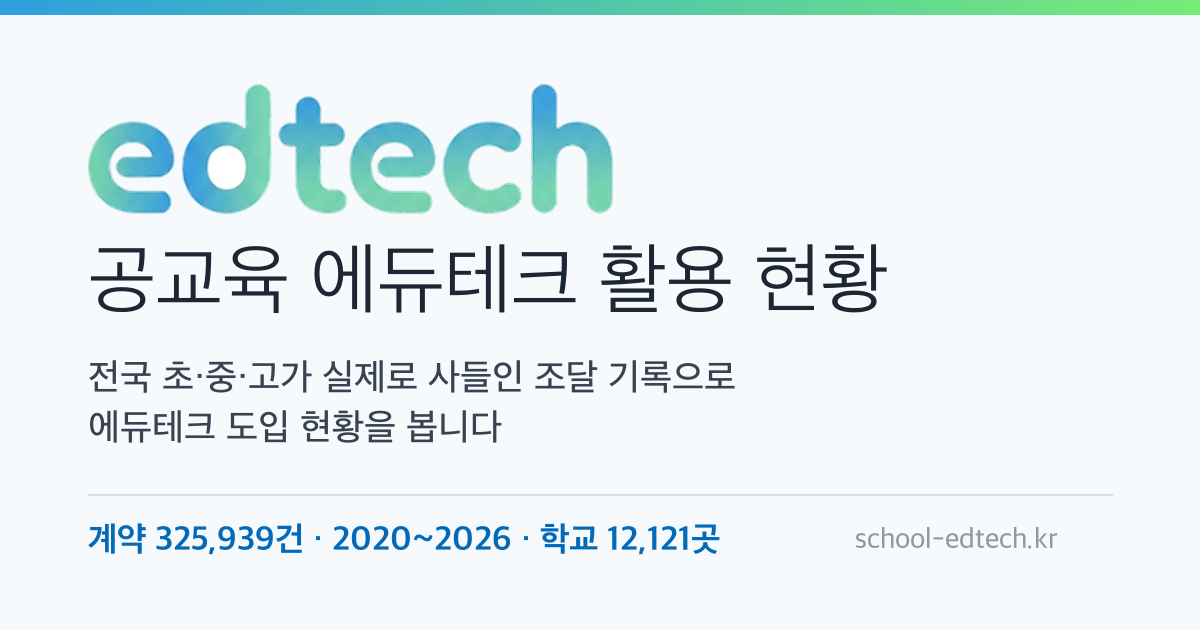
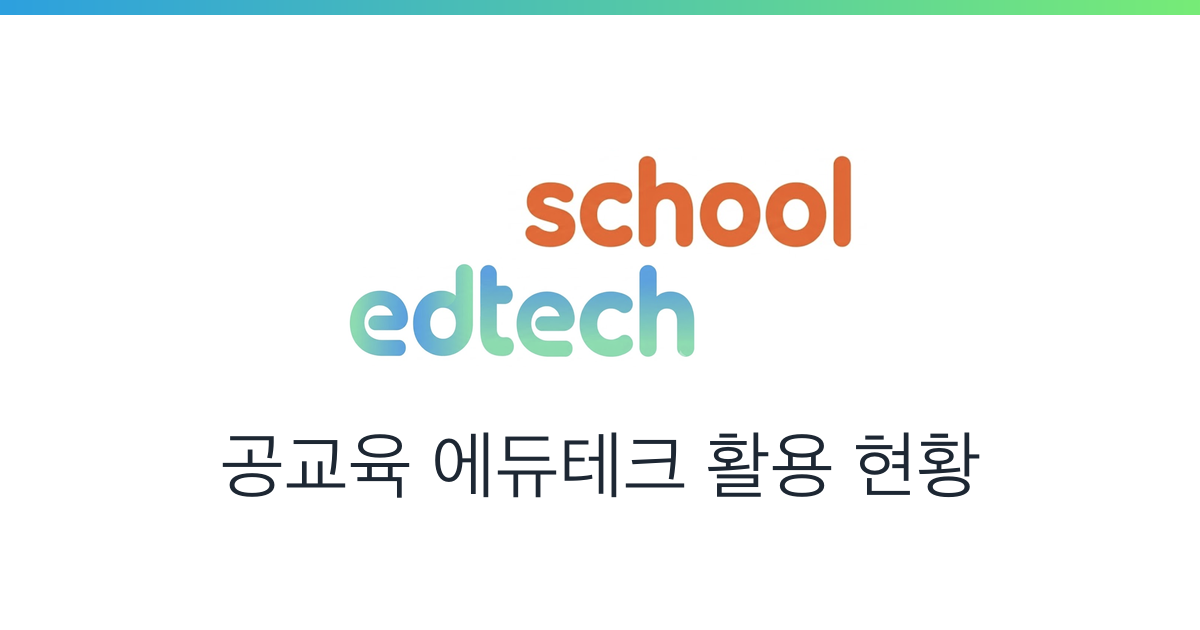
공유 카드(og_card.png)를 로고와 제목만으로 줄이고, 설명 문구도 한 줄로 줄인다
카카오톡 미리보기에 건수·설명·주소까지 적혀 글이 너무 많았다(2026-09-16 사용자). 카드는 school edtech 로고와
'공교육 에듀테크 활용 현황'만 두고, 건수는 og:description 한 줄('… 조달 기록 N건')에만 남긴다. 로고는 원본을 읽어
줄여 선명하게. og:image v=6으로 올려 카카오가 다시 받게 한다.

Changed region(s): [[0.0617, 0.1206, 0.925, 0.8746], [0.7092, 0.8444, 0.8942, 0.8746]]

diff --git a/index.html b/index.html
@@ -12,15 +12,15 @@
 <meta property="og:locale" content="ko_KR">
 <meta property="og:url" content="https://school-edtech.kr/">
 <meta property="og:title" content="공교육 에듀테크 활용 현황">
-<meta property="og:description" content="전국 초·중·고가 실제로 사들인 조달 기록 325,939건으로 보는 에듀테크 도입 현황">
-<meta property="og:image" content="https://school-edtech.kr/og_card.png?v=5">
+<meta property="og:description" content="전국 초·중·고의 에듀테크 도입 현황 — 조달 기록 325,939건">
+<meta property="og:image" content="https://school-edtech.kr/og_card.png?v=6">
 <meta property="og:image:width" content="1200">
 <meta property="og:image:height" content="630">
 <meta property="og:image:alt" content="공교육 에듀테크 활용 현황 — 계약 325,939건, 2020~2026, 학교 12,121곳">
 <meta name="twitter:card" content="summary_large_image">
 <meta name="twitter:title" content="공교육 에듀테크 활용 현황">
 <meta name="twitter:description" content="전국 초·중·고가 실제로 사들인 조달 기록 325,939건으로 보는 에듀테크 도입 현황">
-<meta name="twitter:image" content="https://school-edtech.kr/og_card.png?v=5">
+<meta name="twitter:image" content="https://school-edtech.kr/og_card.png?v=6">
 <link rel="stylesheet" href="https://cdn.jsdelivr.net/gh/orioncactus/pretendard@v1.3.9/dist/web/variable/pretendardvariable-dynamic-subset.min.css">
 <style>
 :root {

diff --git a/make_ogcard.py b/make_ogcard.py
@@ -3,12 +3,14 @@
 import re, sys
 
 def build(total, schools, ymin, ymax):
+    """카드에는 로고와 제목만 둔다 — 건수·설명·주소까지 적었더니 카카오톡 미리보기에서 글이 너무 많았다(2026-09-16 사용자).
+    건수는 og:description(rewrite_meta)에만 남긴다. 로고는 원본(logo_stack_src.png)을 읽어 줄여 선명하게 만든다."""
     try:
         from PIL import Image, ImageDraw, ImageFont
     except ImportError:
         print("  (Pillow가 없어 카드 그림은 건너뛴다)"); return False
     W, H = 1200, 630
-    img = Image.new("RGB", (W, H), "#f7fafd"); d = ImageDraw.Draw(img)
+    img = Image.new("RGB", (W, H), "#ffffff"); d = ImageDraw.Draw(img)   # 로고 원본 바탕이 흰색이라 카드도 흰색
     for x in range(W):                      # 사이트의 --brand-grad와 같은 띠
         t = x / (W - 1)
         d.line([(x, 0), (x, 14)], fill=(int(0x2d + (0x77 - 0x2d) * t),
@@ -16,22 +18,29 @@ def build(total, schools, ymin, ymax):
                                         int(0xdf + (0x77 - 0xdf) * t)))
     F = "/System/Library/Fonts/AppleSDGothicNeo.ttc"
     f = lambda sz, i=0: ImageFont.truetype(F, sz, index=i)
-    wm = Image.open("logo_wordmark.png").convert("RGBA")
-    wm = wm.resize((int(wm.width * 1.55), int(wm.height * 1.55)), Image.LANCZOS)
-    img.paste(wm, (88, 84), wm)
-    d.text((88, 236), "공교육 에듀테크 활용 현황", font=f(78, 8), fill="#1d2733")
-    d.text((88, 356), "전국 초·중·고가 실제로 사들인 조달 기록으로", font=f(37, 2), fill="#384250")
-    d.text((88, 406), "에듀테크 도입 현황을 봅니다", font=f(37, 2), fill="#384250")
-    d.line([(88, 494), (1112, 494)], fill="#d6e0eb", width=2)
-    d.text((88, 520), f"계약 {total:,}건 · {ymin}~{ymax} · 학교 {schools:,}곳",
-           font=f(34, 6), fill="#046ab8")
-    d.text((855, 522), "school-edtech.kr", font=f(29, 2), fill="#9298a2")
+    src = "logo_stack_src.png" if __import__("os").path.exists("logo_stack_src.png") else "logo_stack.png"
+    wm = Image.open(src).convert("RGBA")          # 원본은 읽기만 한다 — 저장하지 않는다
+    bbox = wm.getbbox()
+    if bbox:
+        wm = wm.crop(bbox)
+    lh = 250
+    wm = wm.resize((int(wm.width * lh / wm.height), lh), Image.LANCZOS)
+    title, tf = "공교육 에듀테크 활용 현황", f(74, 8)
+    tw = d.textlength(title, font=tf)
+    gap = 44
+    block_h = lh + gap + 88
+    y0 = (H - 14 - block_h) // 2 + 14
+    img.paste(wm, ((W - wm.width) // 2, y0), wm)
+    d.text(((W - tw) / 2, y0 + lh + gap), title, font=tf, fill="#1d2733")
     img.save("og_card.png", optimize=True)
     return True
 
 def rewrite_meta(total, schools, ymin, ymax):
     s = open("index.html", encoding="utf-8").read()
     s2 = re.sub(r"조달 기록 [\d,]+건", f"조달 기록 {total:,}건", s)
+    # 카카오톡 미리보기의 설명도 짧게 — 제목 아래 한 줄이면 된다(2026-09-16)
+    s2 = re.sub(r'(<meta property="og:description" content=")[^"]*(")',
+                lambda m: f'{m.group(1)}전국 초·중·고의 에듀테크 도입 현황 — 조달 기록 {total:,}건{m.group(2)}', s2)
     # og:image:alt도 건수·학교 수를 적는다 — 여기만 빠뜨려 307,093건·10,502곳이 계속 남아 있었다
     # (2026-09-12 확인). 화면에 보이는 숫자는 빌드가 만든다는 규칙은 메타태그에도 똑같이 적용된다.
     s2 = re.sub(r"계약 [\d,]+건, [^,\"]+, 학교 [\d,]+곳",
